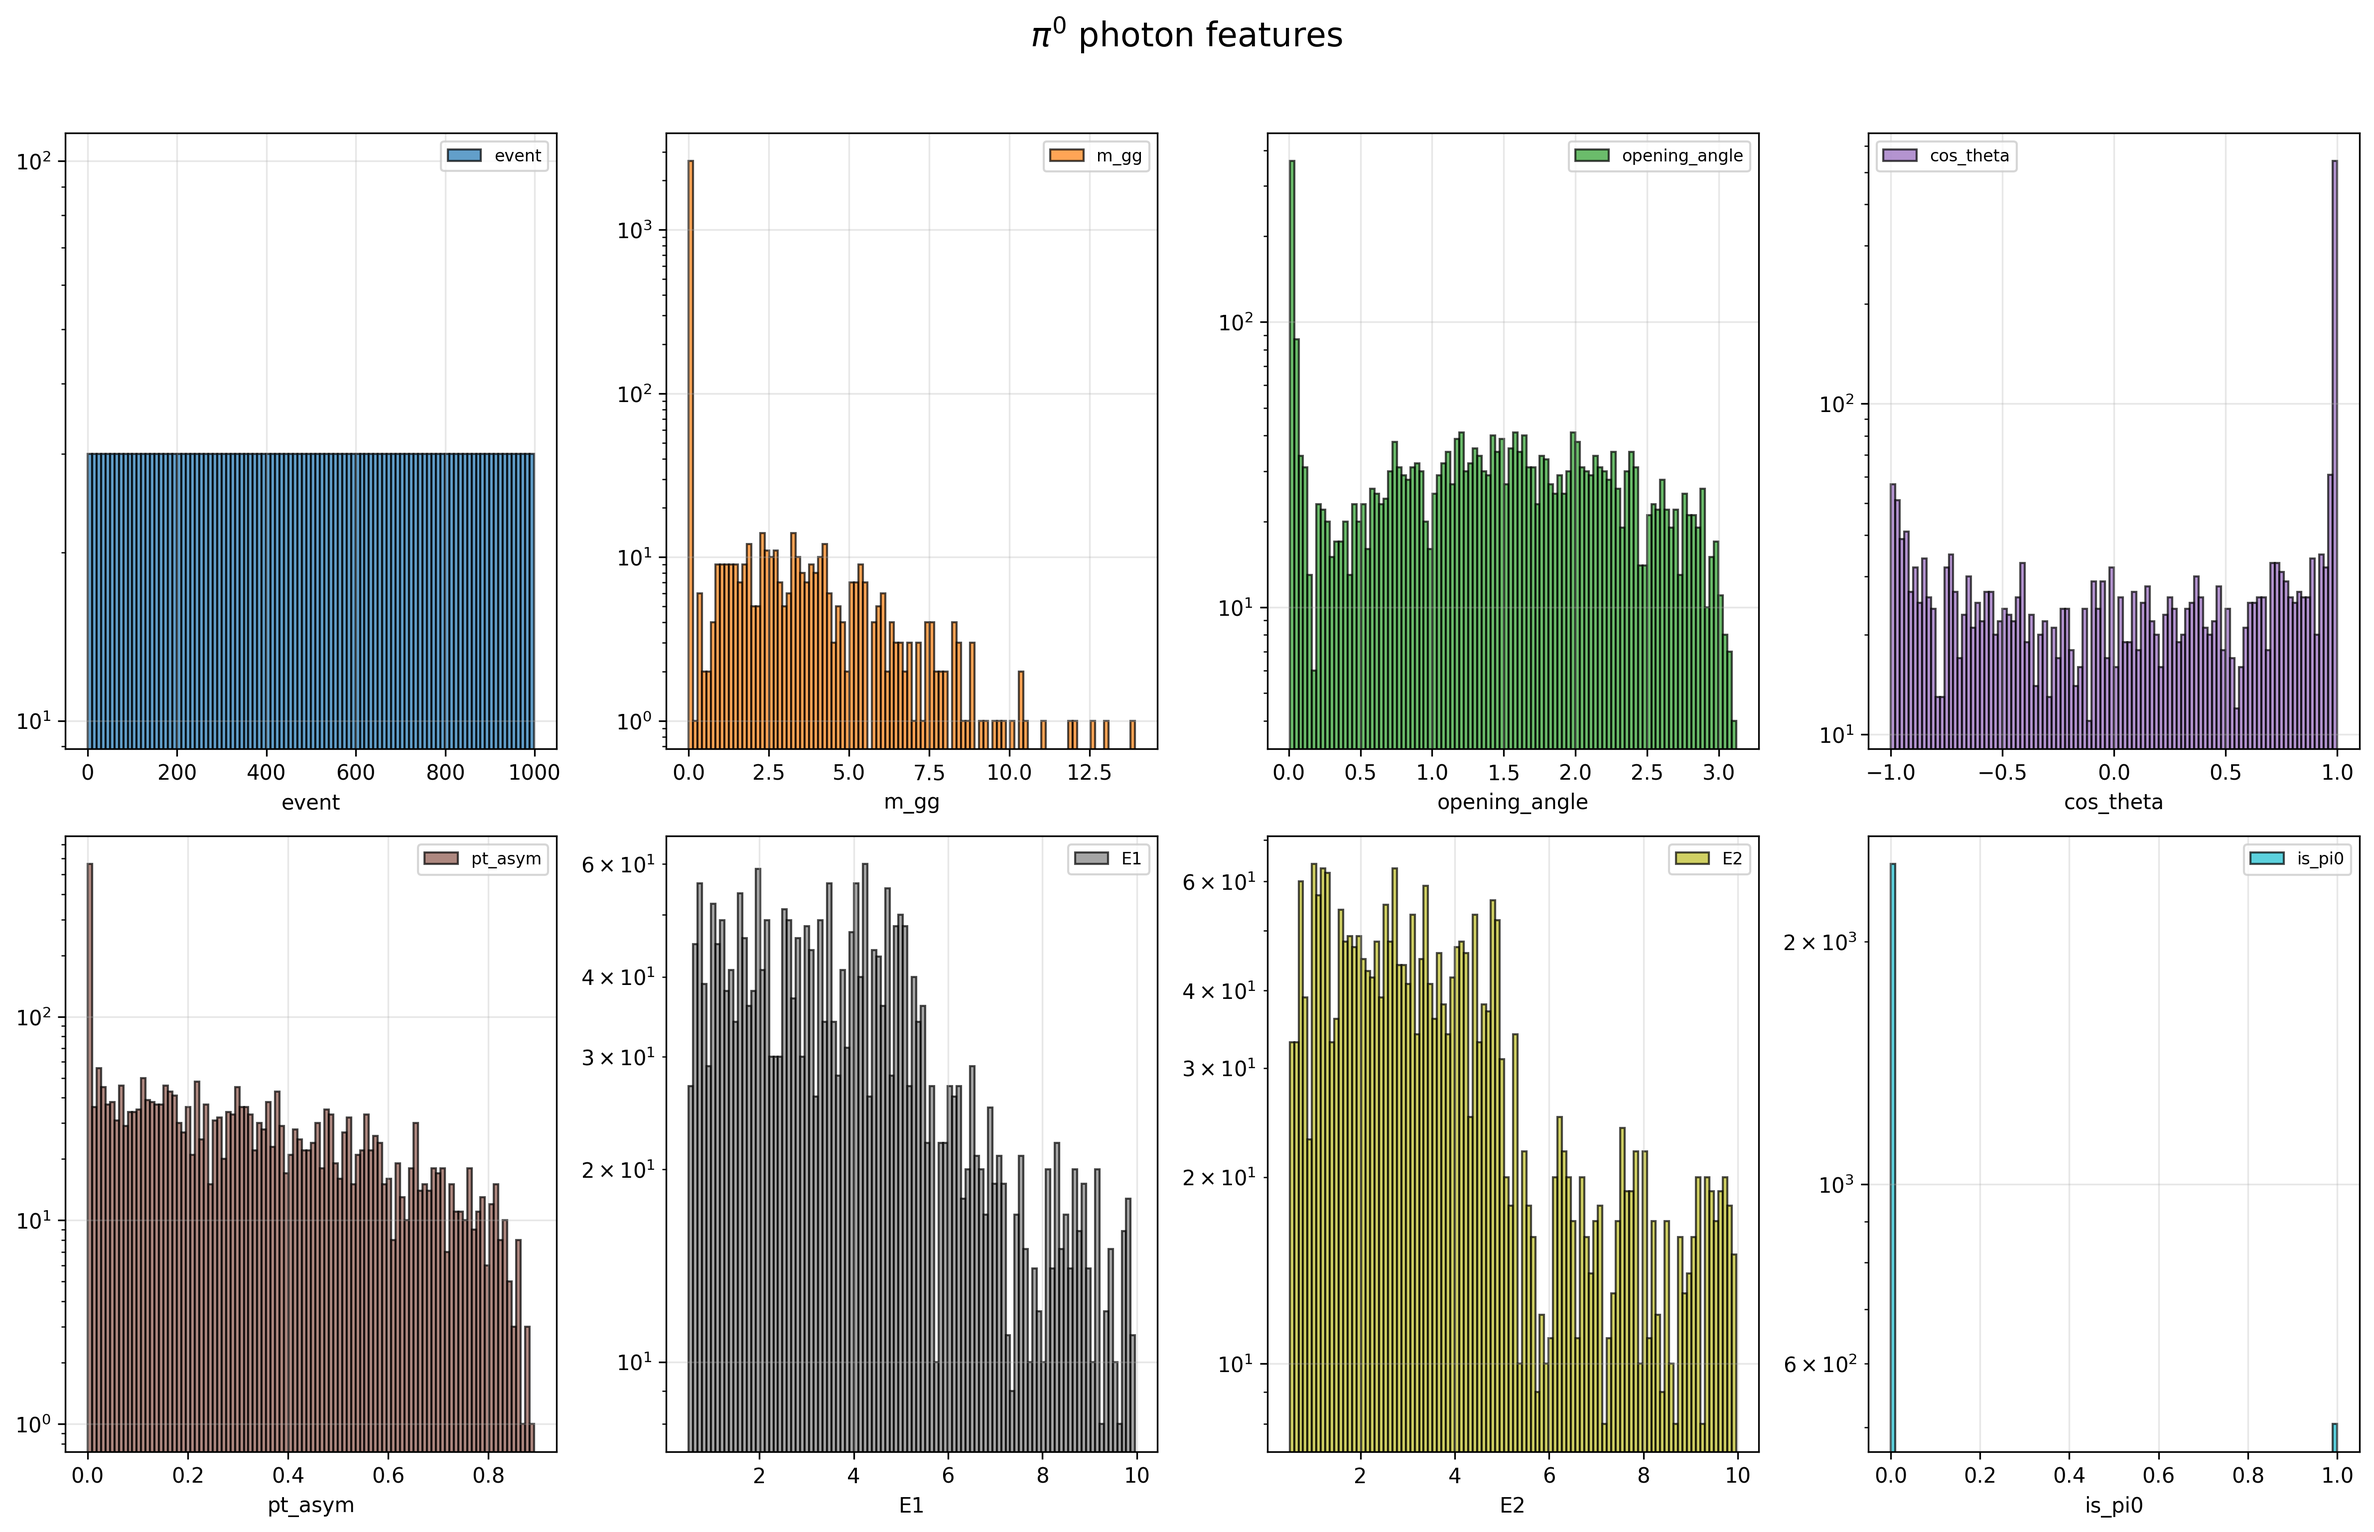
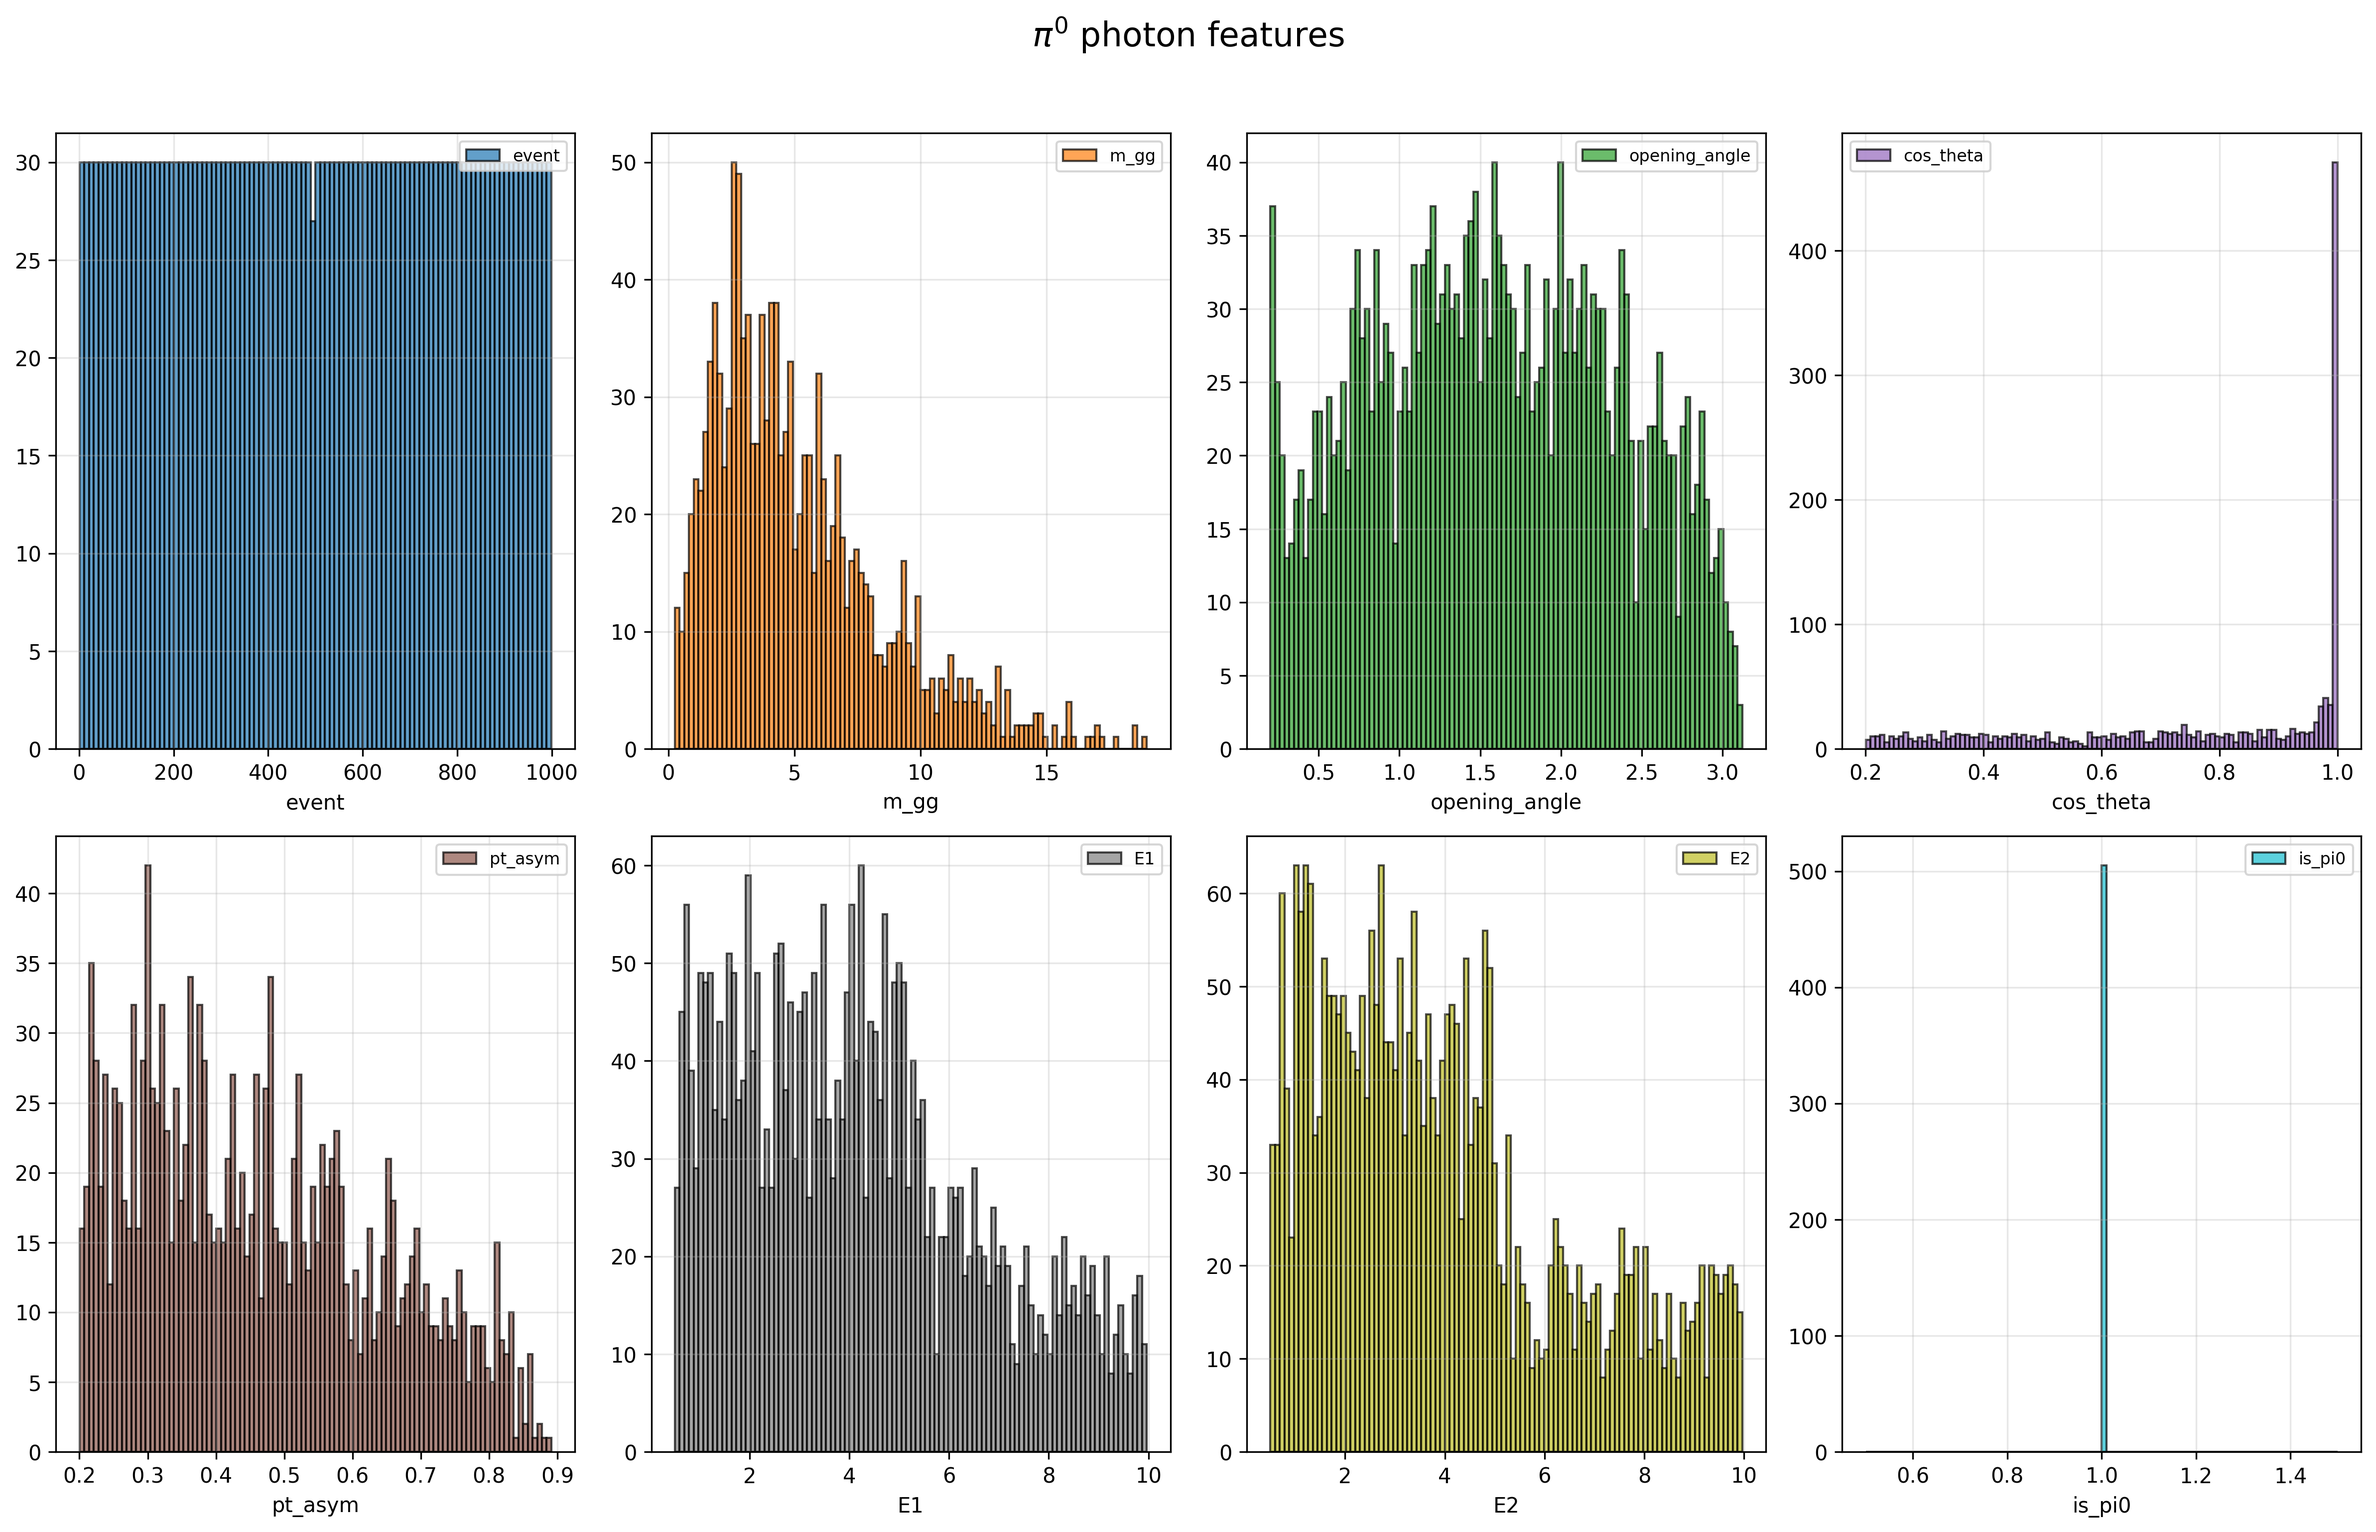
all changes

diff --git a/methods.py b/methods.py
@@ -1,7 +1,109 @@
 import pandas as pd
 import numpy as np
 import matplotlib.pyplot as plt
+import xgboost as xgb
+from sklearn.metrics import roc_auc_score, roc_curve
+from sklearn.model_selection import train_test_split
 
+# =================================================================
+# For a NEW 3-photon event, pick the best pi0 candidate
+# =================================================================
+def find_best_pi0_candidate(photon_4vectors, model):
+    """
+    photon_4vectors: list of 3 arrays, each [E, px, py, pz] or [E, pt, eta, phi]
+    Returns: (best_pair_indices, probability, mass)
+    """
+    pairs = [(0,1), (0,2), (1,2)]
+    candidates = []
+
+    for i, j in pairs:
+        # Calculate EXACT quantities from 4-vectors
+        mass = inv_mass_4vector(photon_4vectors[i], photon_4vectors[j])
+        #print(f"mass    {mass}; photon1_4vectors    {photon_4vectors[i]}; photon2_4vectors  {photon_4vectors[j]}")
+
+        # True opening angle
+        p1 = photon_4vectors[i]
+        p2 = photon_4vectors[j]
+        p1_mag = np.sqrt(np.maximum(0., p1[1]**2 + p1[2]**2 + p1[3]**2))
+        p2_mag = np.sqrt(np.maximum(0., p2[1]**2 + p2[2]**2 + p2[3]**2))
+        dot_product = p1[1] * p2[1] + p1[2] * p2[2] + p1[3] * p2[3]
+        cos_theta = dot_product / (p1_mag * p2_mag + 1e-10) # 1e-10 avoid divide zero
+        theta = np.arccos(np.clip(cos_theta, -1, 1))
+        #print(f"theta:  {theta}")
+
+        # Energy asymmetry
+        e1, e2 = p1[0], p2[0]
+        asym = np.abs(e1 - e2) / (e1 + e2 + 1e-10)
+        # print(f"e1: {e1}; e2: {e2}; asym: {asym}")
+
+        # Predict
+        proba = model.predict_proba([[mass, theta, cos_theta, asym]])[0, 1]
+
+        candidates.append({
+            'pair': (i, j),
+            'score': proba,
+            'mass': mass,
+            'theta': theta
+        })
+
+        # Return the best candidate
+        best = max(candidates, key=lambda x: x['score']) # best: The entire dictionary with the highest score
+        # candidates: A list of dictionaries, each with a 'score' key
+        # max(): Built-in Python function that finds the maximum value
+        # key=lambda x: x['score']: Tells max() to use the 'score' value for comparison
+        return best['pair'], best['score'], best['mass']
+    
+# =================================================================
+# Train XGBoost on EXACT 4-vector quantities
+# =================================================================
+def train_pi0_classifier_4vector(pair_df):
+    """
+    Train classifier using EXACT invariant mass and true opening angle.
+    This is MORE ACCURATE and SIMPLER than using Delta R approximations.
+    """
+
+    # Features: EXACT physics quantities from 4-vectors
+    features = ['m_gg', 'opening_angle', 'cos_theta', 'pt_asym']
+    X = pair_df[features]
+    y = pair_df['is_pi0']
+
+    print(y[y == 1], "y: ", type(y), "n_ones = ", sum(y == 1))
+    #print(X, "X: ", type(X))
+    #print(f"pair_df:    {pair_df.iloc[:, 2]}")
+
+    # Split
+    X_train, X_test, y_train, y_test = train_test_split(
+        X, y, test_size = 0.2, random_state = 42
+    )
+
+    # Ultra-simple XGBoost - shallow trees, fast training
+    model = xgb.XGBClassifier(
+        n_estimators = 100,
+        max_depth = 3, # Shallow = fast, interpretable
+        learning_rate = 0.1,
+        objective = 'binary:logistic',
+        eval_metric = 'auc', # parameter is used in machine learning models (like XGBoost, LightGBM, or sklearn-style APIs) to specify that you want to evaluate your model using AUC (Area Under the ROC Curve) metric.
+        use_label_encode=False,
+        random_state = 42
+    )
+
+    # Train
+    model.fit(X_train, y_train,
+              eval_set = [(X_test, y_test)],
+              verbose=False
+    )
+
+    # Evaluate
+    y_pred = model.predict_proba(X_test)[:, 1]
+    auc = roc_auc_score(y_test, y_pred)
+    print(f"AUC: {auc:.3f}")
+
+    # Feature importance -  check hat m_gg and opening_angle are top
+    importance = model.feature_importances_
+    for f, imp in zip(features, importance):
+        print(f"    {f}: {imp:.03f}")
+
+    return model
 
 # =================================================================
 # Physics METHOD
@@ -18,7 +120,7 @@ def inv_mass_4vector(p1, p2):
     """
 
     if len(p1) == 4 and len(p2) == 4:
-        e = p1[1] + p2[0]
+        e = p1[0] + p2[0]
         px = p1[1] + p2[1]
         py = p1[2] + p2[2]
         pz = p1[3] + p2[3]
@@ -135,53 +237,27 @@ def plot_hist(df, columns_df, rows, bins, plot_nm):
     fig, axes = plt.subplots(rows, plot_col, figsize=(16, 10)) # rows and columns to subplots
     fig.suptitle(r'$\pi^{0}$ photon features', fontsize=16, y=1.02)
     colors = plt.cm.tab10(np.linspace(0, 1, col_len))  # Generate distinct colors
+     #color = ["blue", "black", "red", "yellow", "purple", "green", "orange", "brown", "gray", "cyan"]
     #print(f"columns list ({col_len}); plot {rows}x{plot_col}")
 
     # Flatten axes array for easy iteration
     axes = axes.flatten()
 
     for i, label in enumerate(columns_df[:col_len]):
-        print(i, label)
+        #print(i, label)
         # desity=True normalized
-        axes[i].hist(df[label], color=colors[i], bins=bins, label=label, density=False, edgecolor='black', alpha=0.7)
+        positive_data = df[df[label] > 0.2][label]
+        axes[i].hist(positive_data, color=colors[i], bins=bins, label=label, density=False, edgecolor='black', alpha=0.7)
+        #axes[i].hist(df[label], color=colors[i], bins=bins, label=label, density=False, edgecolor='black', alpha=0.7)
         #axes[i].set_title(label, fontsize=12)
         axes[i].set_xlabel(label)
         axes[i].set_ylabel(None)
         axes[i].grid(True, alpha=0.3)
         axes[i].legend(loc='best', fontsize=8) 
-        axes[i].set_yscale('log')  # <-- LOG SCALE ON Y-AXIS
+        #axes[i].set_yscale('log')  # <-- LOG SCALE ON Y-AXIS
         
     plt.tight_layout()
     plt.savefig(plot_nm + '.png', dpi=300, bbox_inches='tight')
     plt.show(block=False)
     plt.close()
 
-r'''
-    ## Plot pi0 features
-    columns_to_plot = [col for col in pair_df.columns if col != 'pair_id']
-    n_cols = len(columns_to_plot)
-    print(f"columns_to_plot ({n_cols}): {columns_to_plot}")
-    #color = ["blue", "black", "red", "yellow", "purple", "green", "orange", "brown", "gray", "cyan"]
-    colors = plt.cm.tab10(np.linspace(0, 1, len(columns_to_plot)))  # Generate distinct colors
-    
-    # Create 2x4 subplot grid
-    fig, axes = plt.subplots(2, 4, figsize=(16, 10)) # 2 rows, 4 columns
-    fig.suptitle(r'$\pi^{0}$ photon features', fontsize=16, y=1.02)
-
-    # Flatten axes array for easy iteration
-    axes = axes.flatten()
-    
-    bins = 100
-    for i, label in enumerate(columns_to_plot[:8]):
-        print(i, label)
-        axes[i].hist(pair_df[label], color=colors[i], bins=bins, density=True, edgecolor='black', alpha=0.7)
-        axes[i].set_title(label, fontsize=12)
-        axes[i].set_xlabel(label)
-        axes[i].set_ylabel(None)
-        axes[i].grid(True, alpha=0.3)
-
-    plt.savefig('features.png', dpi=300, bbox_inches='tight')
-    plt.tight_layout()
-    plt.show()
-    plt.close()
-'''

diff --git a/main.py b/main.py
@@ -2,10 +2,9 @@ import matplotlib.pyplot as plt
 import pandas as pd
 import numpy as np
 import xgboost as xgb
-from sklearn.model_selection import train_test_split
 from sklearn.metrics import roc_auc_score
 import warnings
-from methods import prepare_3photon_paris, plot_hist
+from methods import prepare_3photon_paris, plot_hist, find_best_pi0_candidate, train_pi0_classifier_4vector
 
 # Based on description from xgboost_pi0_photon_paring
 
@@ -79,11 +78,13 @@ if __name__ == "__main__":
             # Then boost to lab frame
             # This is simplifed - in reality use proper decay generator
             # pi0 photon pair
-            e1_lab = pi0_pt * np.cosh(pi0_eta) / 2
-            e2_lab = pi0_pt * np.cosh(pi0_eta) / 2
+            pi0_p = pi0_pt * np.cosh(pi0_eta) # momentum magnitude
+            pi0_E = np.sqrt(np.maximum(0, m_pi0**2 + pi0_p**2))
+            e1_lab = pi0_E / 2
+            e2_lab = pi0_E / 2
 
             # Approximate directions (small opening angle in lab)
-            dr = 0.135 / pi0_pt # approximation: theta = m/p
+            dr = 2 * m_pi0 / pi0_E # approximation: theta = m/p
             phi1 = pi0_phi
             phi2 = pi0_phi + dr
             eta1 = pi0_eta
@@ -106,6 +107,15 @@ if __name__ == "__main__":
             px3 = e3 * np.cos(phi3) / np.cosh(eta3)
             py3 = e3 * np.sin(phi3) / np.cosh(eta3)
             pz3 = e3 * np.sinh(eta3)
+
+            # Check m_gg
+            ee = e1_lab + e2_lab
+            pxx = px1 + px2
+            pyy = py1 + py2
+            pzz = pz1 + pz2
+            mass_squared = ee**2 - (pxx**2 + pyy**2 + pzz**2)
+            mass_pi0 = np.sqrt(np.maximum(0, mass_squared))
+            print(f"ee  {ee}; mass_pi0  {mass_pi0}")  
 
             # Data
             synthetic_data.append({
@@ -150,7 +160,7 @@ if __name__ == "__main__":
     # plot 3 photon 4-momentum
     plot_hist(df, columns_df, 3, 100, "photon_features") # data, column list, number of rows to plot, number of bins
 
-     # Prepare pair dataset with EXACT 4-vector quantities
+    # Prepare pair dataset with EXACT 4-vector quantities
     print("\n0. Creating photon pairs with EXACT invariant masses ...")
     pair_df = prepare_3photon_paris(df)
     columns_pair_df = [col for col in pair_df.columns if col != 'pair_id']
@@ -158,56 +168,34 @@ if __name__ == "__main__":
     #print(f"    {len(pair_df)} pairs created")
     #print(f"    {pair_df.is_pi0.sum()} true pi0 pairs")
     print(f"    Cloumns: {columns_pair_df}")
+    
+    # plot photon pair features
     plot_hist(pair_df, columns_pair_df, 2, 100, "pair_features")
-
-    # Feature ispection: EXACT physics quantities from 4-vectors
-    features = ['m_gg']
-    X = pair_df[features]
-
-    #print(X, "X: ", type(X))
-    #print(f"pair_df:    {pair_df.iloc[:, 2]}")
 
     print("\n1. Inspect features ...")
     #print(f"# columns ({len(pair_df.columns[:])}); Column name:    {pair_df.columns[:]}")
     #print(pair_df.head(5))
-    print(f"Statistics:\n{pair_df.describe()}")
+    #print(f"Statistics:\n{pair_df.describe()}")
     #print(df.head(10))
     #print(f"Column name: {df.columns[0]}")
     #print(f"Data type: {df.dtypes}")
     #print(f"Statistics:\n{df.describe()}")
     #print("data:", df.shape())
 
-    ## Plot pi0 photon features
-    
-    r'''
-    ## Plot pi0 features
-    columns_to_plot = [col for col in pair_df.columns if col != 'pair_id']
-    n_cols = len(columns_to_plot)
-    print(f"columns_to_plot ({n_cols}): {columns_to_plot}")
-    #color = ["blue", "black", "red", "yellow", "purple", "green", "orange", "brown", "gray", "cyan"]
-    colors = plt.cm.tab10(np.linspace(0, 1, len(columns_to_plot)))  # Generate distinct colors
-    
-    # Create 2x4 subplot grid
-    fig, axes = plt.subplots(2, 4, figsize=(16, 10)) # 2 rows, 4 columns
-    fig.suptitle(r'$\pi^{0}$ photon features', fontsize=16, y=1.02)
-
-    # Flatten axes array for easy iteration
-    axes = axes.flatten()
-    
-    bins = 100
-    for i, label in enumerate(columns_to_plot[:8]):
-        print(i, label)
-        axes[i].hist(pair_df[label], color=colors[i], bins=bins, density=True, edgecolor='black', alpha=0.7)
-        axes[i].set_title(label, fontsize=12)
-        axes[i].set_xlabel(label)
-        axes[i].set_ylabel(None)
-        axes[i].grid(True, alpha=0.3)
-
-    plt.savefig('features.png', dpi=300, bbox_inches='tight')
-    plt.tight_layout()
-    plt.show()
-    plt.close()
-
     # Train classifier
     print("\n2. Training XGBoost on EXACT 4-vector features ...")
-    '''
+    model = train_pi0_classifier_4vector(pair_df)
+
+    # Test on a few events
+    print("\n3. Testing on 5 random events:")
+    test_events = df.sample(50)
+    for _, evt in test_events.iterrows():
+        photons = [
+            np.array([evt.E1, evt.px1, evt.py1, evt.pz1]),
+            np.array([evt.E2, evt.px2, evt.py2, evt.pz2]),
+            np.array([evt.E3, evt.px3, evt.py3, evt.pz3]),
+        ]
+
+        best_pair, score, mass = find_best_pi0_candidate(photons, model)
+        truth = f"True pi0: {evt.true_pi0_pair}" if evt.is_signal else "Background event"
+        print(f"   Event {evt.event}: Best pair {best_pair}, score={score:.3f}, m={mass:.3f} | {truth}")
